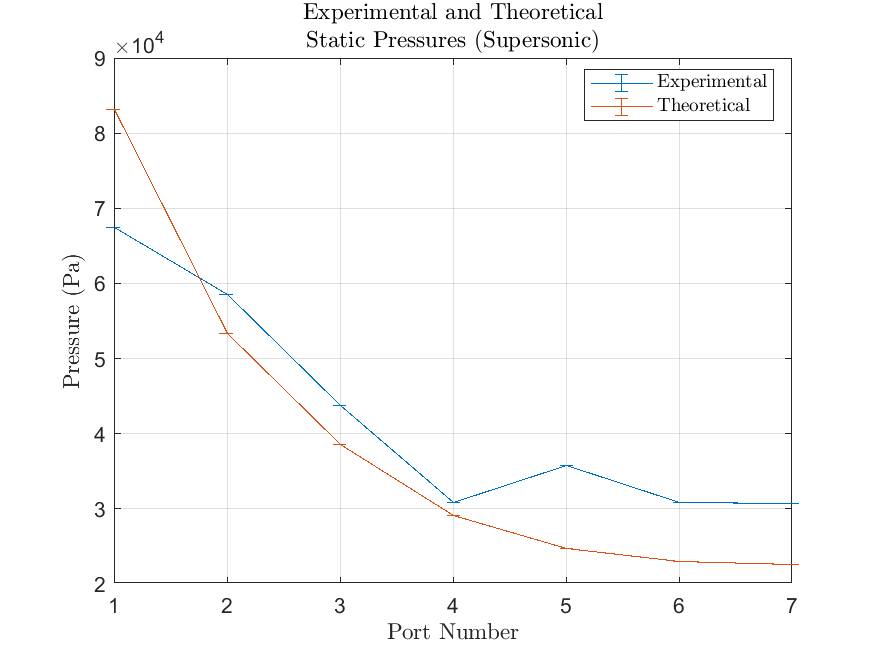
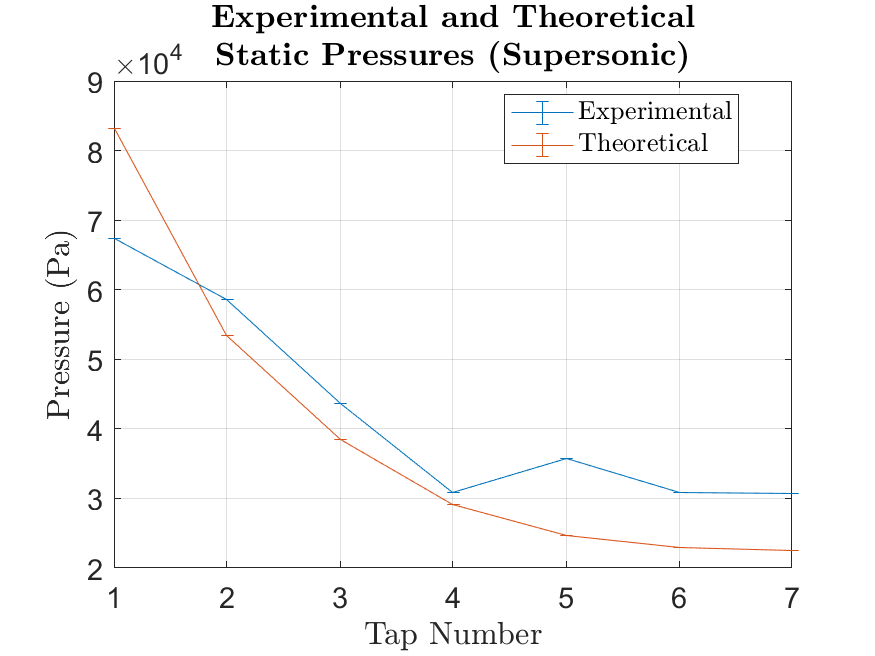
LATEX: Update figures and formatting

diff --git a/code/main.m b/code/main.m
@@ -6,6 +6,9 @@
 
 addpath('preprocessing')
 
+%% Plot Defaults
+set(0,'defaultAxesFontSize',14)
+
 %% Plot Raw Pressures and Uncertainties
 trial = "subsonic"; % Sub- or super-sonic
 
@@ -16,13 +19,13 @@ figure
 errorbar(pressures(1,:), uncertainties(1,:))
 hold on
 errorbar(pressures(2,:), uncertainties(2,:))
-xlabel("Port Number",...
+xlabel("Tap Number",...
     "interpreter", "latex")
 ylabel("Pressure (Pa)",...
     "interpreter", "latex")
 legend("Static Pressure", "Total Pressure",'Location','best',...
     "interpreter", "latex")
-title(sprintf("Pressures for %s Experiment", trial),...
+title("\textbf{Pressures (Subsonic)}",...
     "interpreter", "latex")
 grid on
 saveas(gcf, '..\latex\figures\subsonic_pressure_distributions.png')
@@ -36,13 +39,13 @@ figure
 errorbar(pressures(1,:), uncertainties(1,:))
 hold on
 errorbar(pressures(2,:), uncertainties(2,:))
-xlabel("Port Number",...
+xlabel("Tap Number",...
     "interpreter", "latex")
 ylabel("Pressure (Pa)",...
     "interpreter", "latex")
 legend("Static Pressure", "Total Pressure",'Location','best',...
     "interpreter", "latex")
-title(sprintf("Pressures for %s Experiment", trial),...
+title("\textbf{Pressures (Supersonic)}",...
     "interpreter", "latex")
 grid on
 saveas(gcf, '..\latex\figures\supersonic_pressure_distributions.png')
@@ -76,9 +79,10 @@ figure
 errorbar(sub_pressure(1, :), error (1,:))
 hold on
 errorbar(sub_pressure_thy, sub_pressure_thy_err)
-title({'Experimental and Theoretical', 'Static Pressures (Subsonic)'},...
+title({'\textbf{Experimental and Theoretical}',...
+    '\textbf{Static Pressures (Subsonic)}'},...
     "interpreter", "latex")
-xlabel("Port Number",...
+xlabel("Tap Number",...
     "interpreter", "latex")
 ylabel("Pressure (Pa)",...
     "interpreter", "latex")
@@ -92,9 +96,10 @@ figure
 errorbar(sub_mach_exp, sub_mach_exp_err)
 hold on
 errorbar(sub_mach_thy, sub_mach_thy_err)
-title('Experimental and Theoretical Mach Comparison (Subsonic)',...
+title({'\textbf{Experimental and Theoretical}',...
+    '\textbf{Mach Comparison (Subsonic)}'},...
     "interpreter", "latex")
-xlabel("Port Number",...
+xlabel("Tap Number",...
     "interpreter", "latex")
 ylabel("Mach Number",...
     "interpreter", "latex")
@@ -122,9 +127,10 @@ figure
 errorbar(sup_pressure(1, :), error(1, :))
 hold on
 errorbar(sup_pressure_thy, sup_pressure_thy_err)
-title({'Experimental and Theoretical', 'Static Pressures (Supersonic)'},...
+title({'\textbf{Experimental and Theoretical}',...
+    '\textbf{Static Pressures (Supersonic)}'},...
     "interpreter", "latex")
-xlabel("Port Number",...
+xlabel("Tap Number",...
     "interpreter", "latex")
 ylabel("Pressure (Pa)",...
     "interpreter", "latex")
@@ -142,9 +148,10 @@ figure
 errorbar(sup_mach_exp, sup_mach_exp_err)
 hold on
 errorbar(sup_mach_thy, sup_mach_thy_err)
-title('Experimental and Theoretical Mach Comparison (Supersonic)',...
+title({'\textbf{Experimental and Theoretical}',...
+    '\textbf{Mach Comparison (Supersonic)}'},...
     "interpreter", "latex")
-xlabel("Port Number",...
+xlabel("Tap Number",...
     "interpreter", "latex")
 ylabel("Mach Number",...
     "interpreter", "latex")
